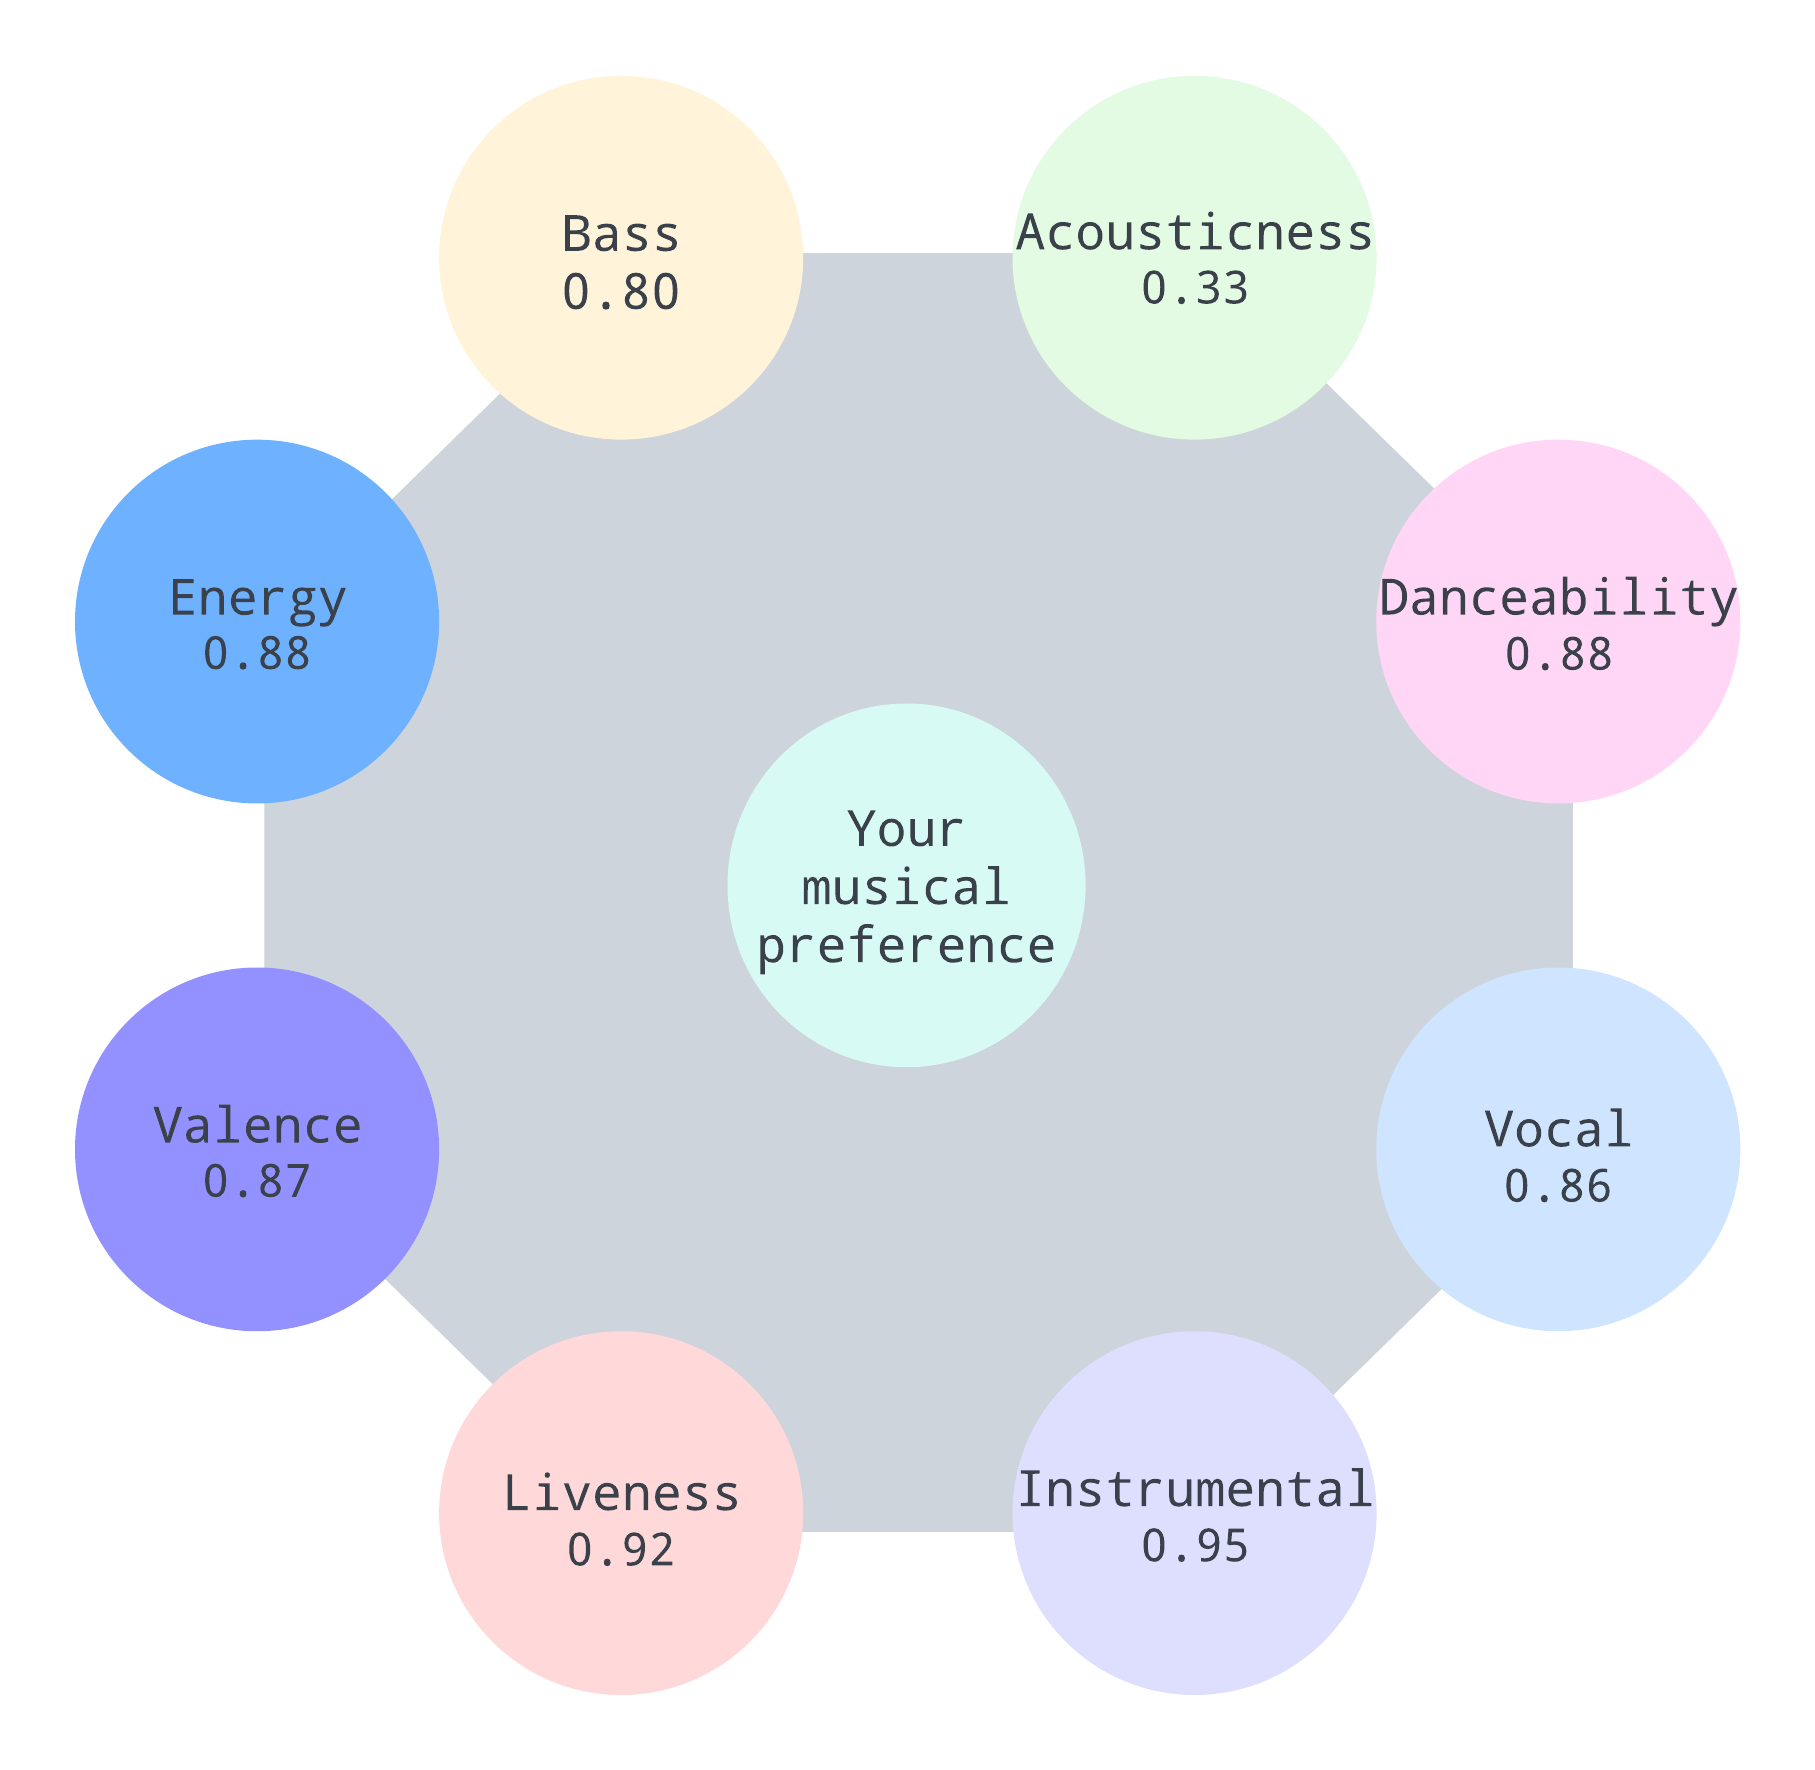
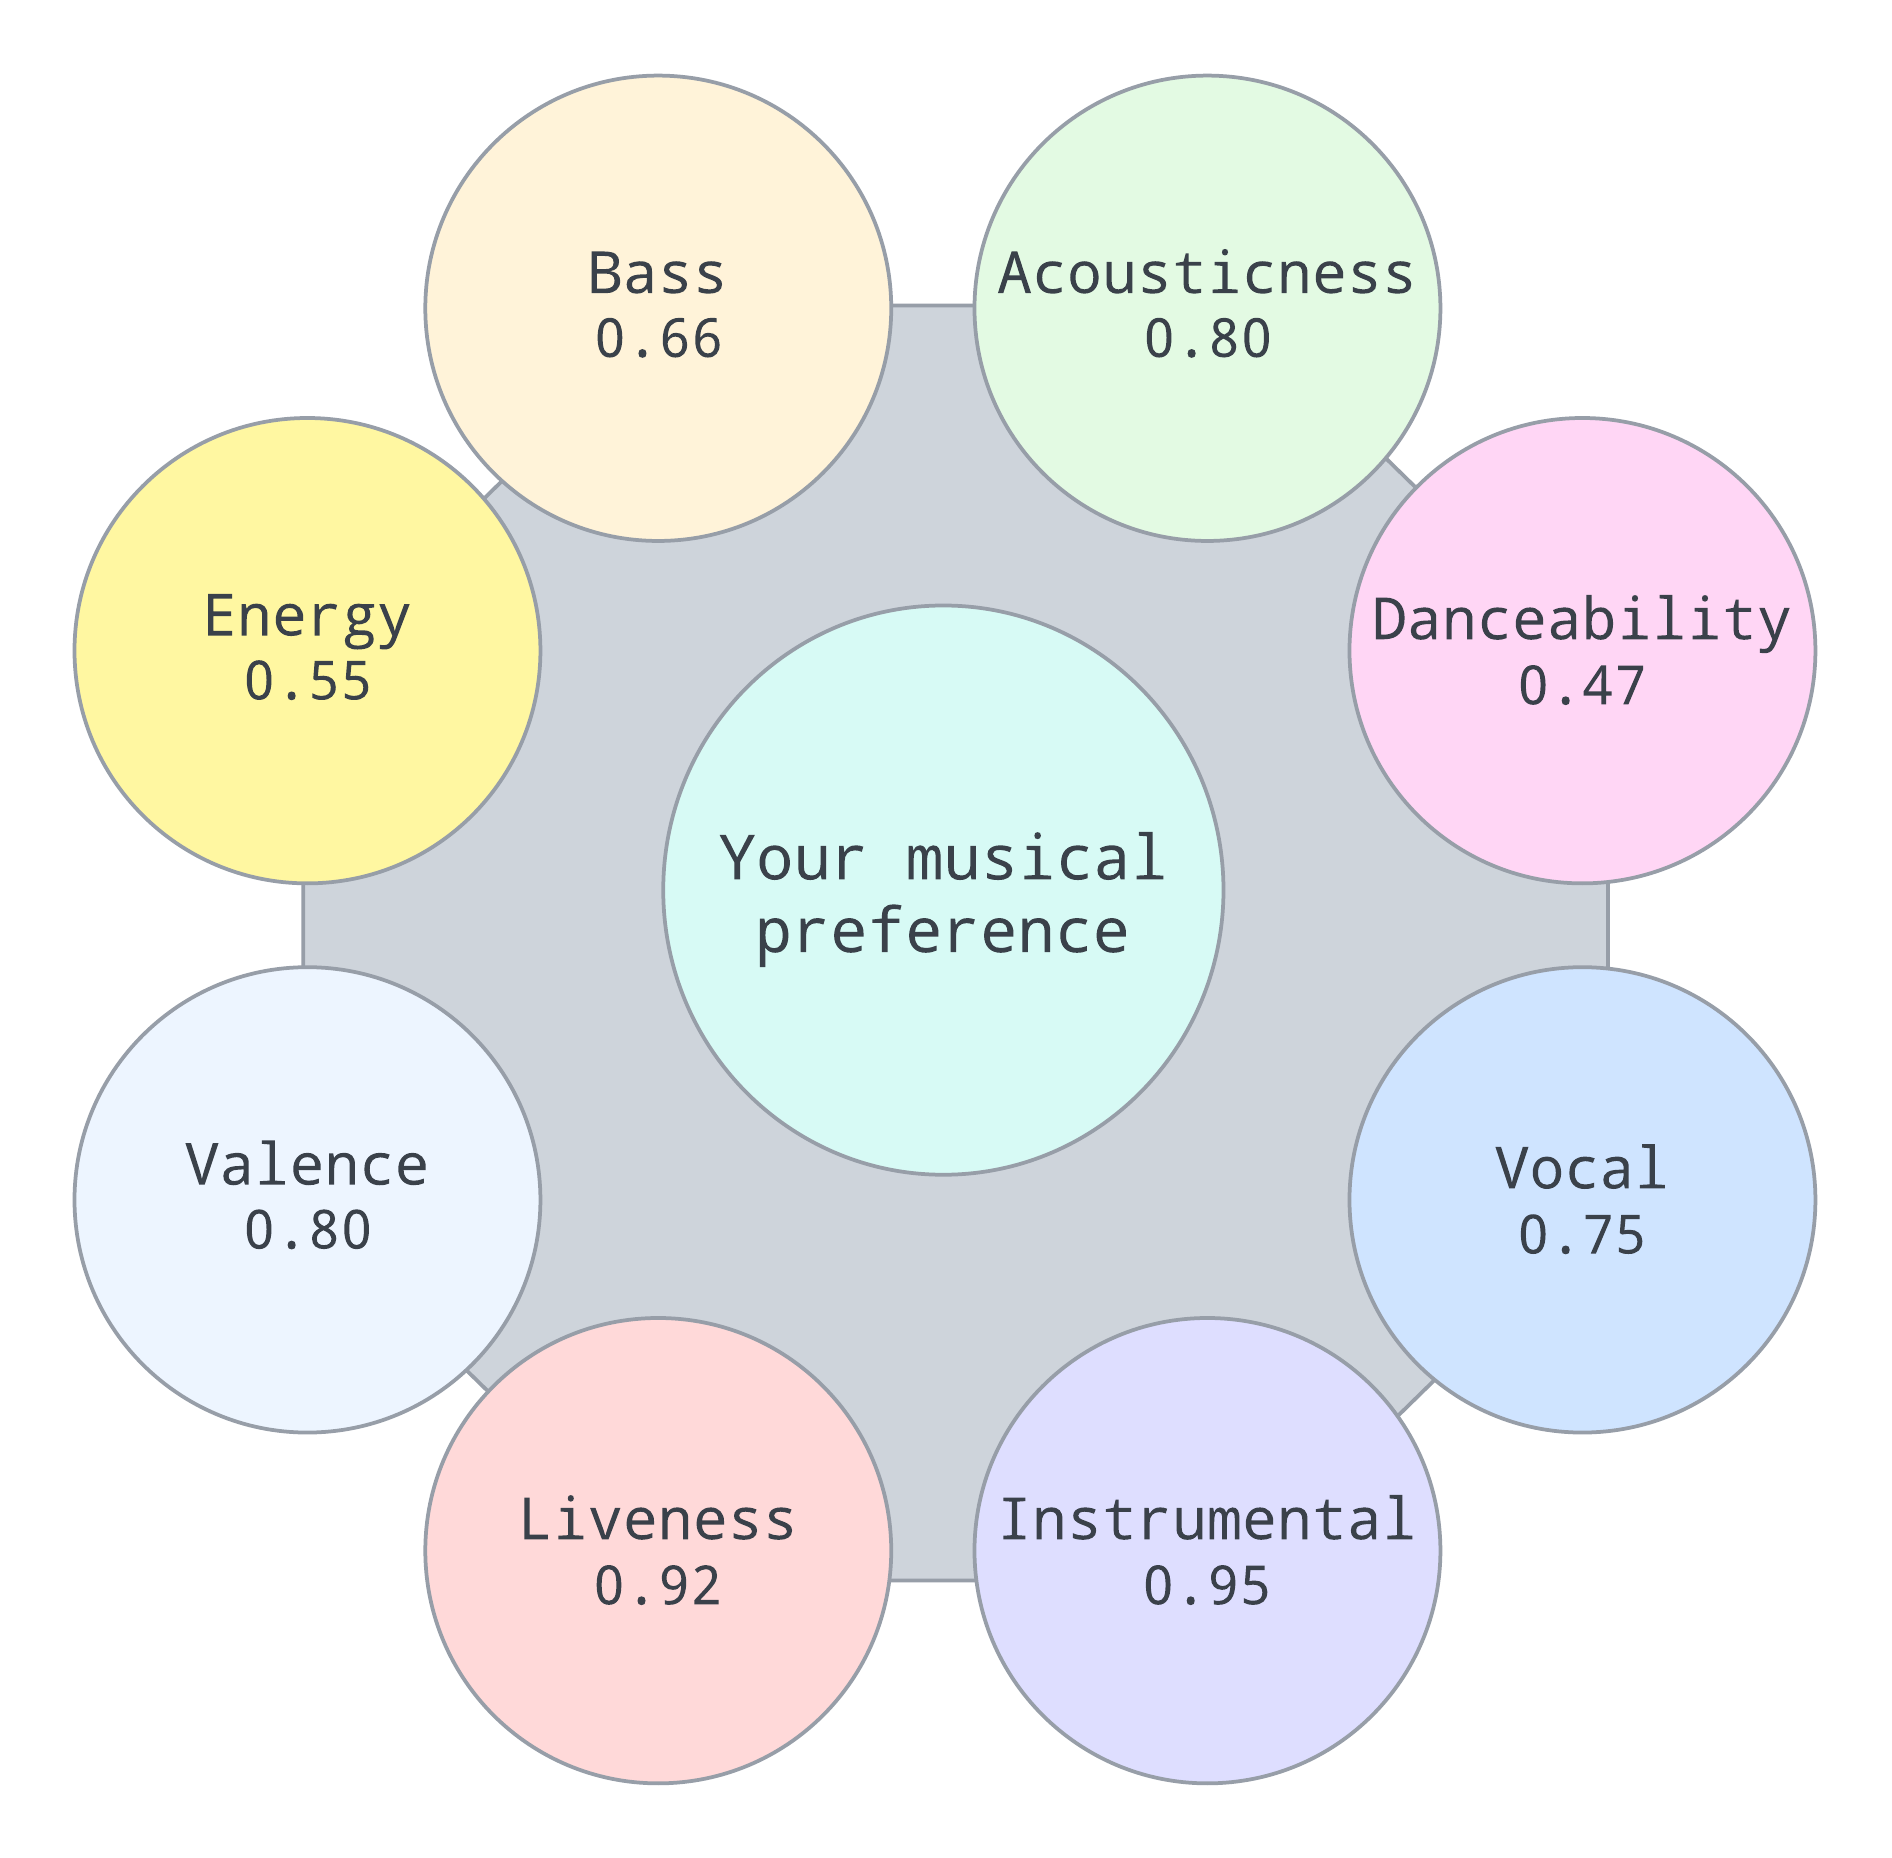
added new octagons, some subtle changes

diff --git a/index.html b/index.html
@@ -44,22 +44,22 @@
             </div>
           </div>
           <div class="song-card">
-            <img src="./covers/ABBA — Waterloo.jpg"></img>
-            <p class="song-title">Waterloo</p>
-            <p class="song-artist">ABBA</p>
+            <img src="./images/cactus-restriction.jpeg"></img>
+            <p class="song-title">Alaska</p>
+            <p class="song-artist">Cactus</p>
             <div class="song-duration">
-              <p>2:47</p>
+              <p>3:41</p>
               <svg xmlns="http://www.w3.org/2000/svg" fill="none" viewBox="0 0 24 24" stroke-width="1.5" stroke="currentColor" class="w-6 h-6">
                 <path stroke-linecap="round" stroke-linejoin="round" d="M12 6v6h4.5m4.5 0a9 9 0 1 1-18 0 9 9 0 0 1 18 0Z" />
               </svg>
             </div>
           </div>
           <div class="song-card">
-            <img src="./covers/ACDC — Back In Black.jpg"></img>
-            <p class="song-title">Back In Black</p>
-            <p class="song-artist">ACDC</p>
+            <img src="./images/Holdin'_on_to_Yesterday_-_Ambrosia.jpeg"></img>
+            <p class="song-title">Holdin' on to Yesterday</p>
+            <p class="song-artist">Ambrosia</p>
             <div class="song-duration">
-              <p>4:14</p>
+              <p>4:20</p>
               <svg xmlns="http://www.w3.org/2000/svg" fill="none" viewBox="0 0 24 24" stroke-width="1.5" stroke="currentColor" class="w-6 h-6">
                 <path stroke-linecap="round" stroke-linejoin="round" d="M12 6v6h4.5m4.5 0a9 9 0 1 1-18 0 9 9 0 0 1 18 0Z" />
               </svg>
@@ -67,7 +67,7 @@
           </div>
         </div>
         <div class="description-section">
-          <p class="description-header">State of the recommendation engine</p>
+          <p class="description-header">Your algorithm</p>
           <p class="description-text">Here is a visualisation of your algorithm based on last week's activity. <a class="friends" href="./friends.html">View your friend's algorithm.</a> </p>
           <img class="musical-octagon" src="./images/musical_octagon.png" alt="musical octagon" class="musical_octagon" />
         </div>

diff --git a/friends.html b/friends.html
@@ -30,21 +30,21 @@
             <img class="user-image" src="./images/IMG_2772.jpeg"/>
             <p class="description-header">John123</p>
           </div>
-          <img class="musical-octagon" src="./images/musical_octagon (2).png" alt="musical octagon" class="musical_octagon" />
+          <img class="musical-octagon" src="./images/musical_octagon (1).png" alt="musical octagon" class="musical_octagon" />
         </div>
         <div class="description-section">
           <div class="user-container">
             <img class="user-image" src="./images/surprised_cat.jpeg"/>
             <p class="description-header">Gavin</p>
           </div>
-          <img class="musical-octagon" src="./images/musical_octagon (3).png" alt="musical octagon" class="musical_octagon" />
+          <img class="musical-octagon" src="./images/musical_octagon (2).png" alt="musical octagon" class="musical_octagon" />
         </div>
         <div class="description-section">
           <div class="user-container">
             <img class="user-image" src="./images/thispersondoesnotexist.jpeg"/>
             <p class="description-header">SunBeam11</p>
           </div>
-          <img class="musical-octagon" src="./images/musical_octagon (4).png" alt="musical octagon" class="musical_octagon" />
+          <img class="musical-octagon" src="./images/musical_octagon (3).png" alt="musical octagon" class="musical_octagon" />
         </div>
       </div>
     </div>

diff --git a/js/find_songs.js b/js/find_songs.js
@@ -539,9 +539,9 @@ const songs = [
   // add image cover
   { name: "The Void", artist: "Andy Black", similarity: 0.93, duration: "4:51", image: "./covers/Andy Black — The Shadow Side — The Void.jpg", album: "The Shadow Side" },
   { name: "One Desire", artist: "Kari Jobe", similarity: 0.87, duration: "4:45", image: "./covers/Kari Jobe — Where I Find You — One Desire.jpg", album: "Where I Find You" },
-  { name: "The Arena", artist: "Lindsey Stirling", similarity: 0.86, duration: "4:07", image: "./covers/Lindsey Stirling — Brave Enough — The Arena.jpg", album: "Brave Enough" },
+  { name: "If Everything Is Worth It", artist: "TIAGO IORC", similarity: 0.86, duration: "3:39", image: "./covers/TIAGO IORC — Umbilical — If Everything Is Worth It.jpg", album: "Umbilical" },
   { name: "Hell, Yeah", artist: "Nothing But Thieves", similarity: 0.85, duration: "3:07", image: "./covers/Nothing But Thieves — Broken Machine — Hell, Yeah.jpg", album: "Broken Machine" },
-  { name: "If Everything Is Worth It", artist: "TIAGO IORC", similarity: 0.83, duration: "3:39", image: "./covers/TIAGO IORC — Umbilical — If Everything Is Worth It.jpg", album: "Umbilical" },
+  { name: "The Arena", artist: "Lindsey Stirling", similarity: 0.83, duration: "4:07", image: "./covers/Lindsey Stirling — Brave Enough — The Arena.jpg", album: "Brave Enough" },
 ];
 
 // Function to search for songs

diff --git a/css/style.css b/css/style.css
@@ -170,7 +170,7 @@
   flex-direction: row;
   align-items: center;
   justify-content: space-between;
-  margin: 1rem 1rem;
+  margin: 1rem 0.5rem;
   padding: 0.5rem 1rem;
   color: #f1faee;
   background-color: #333;
